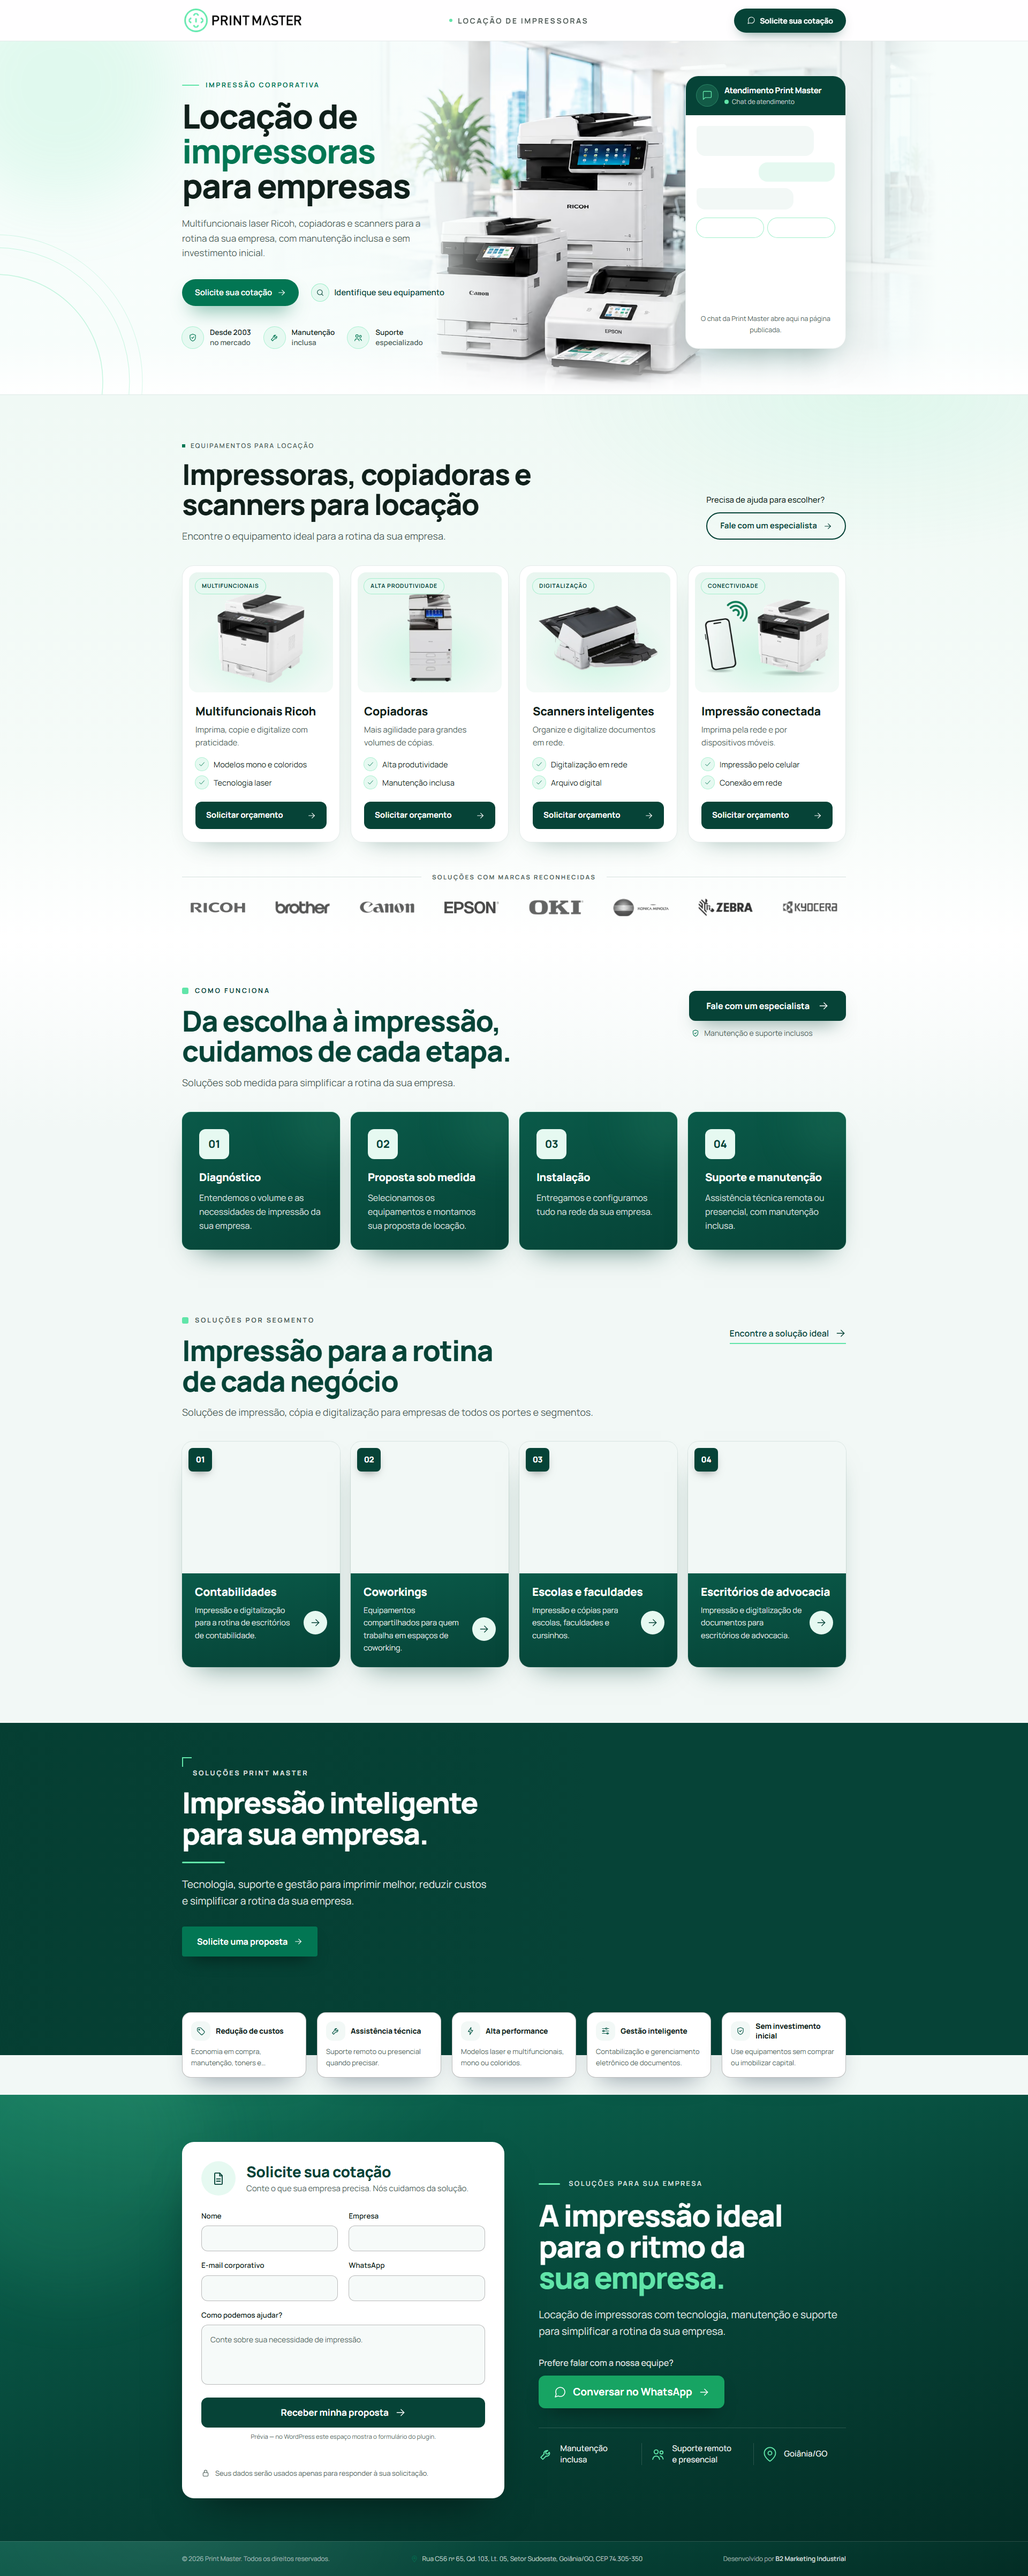
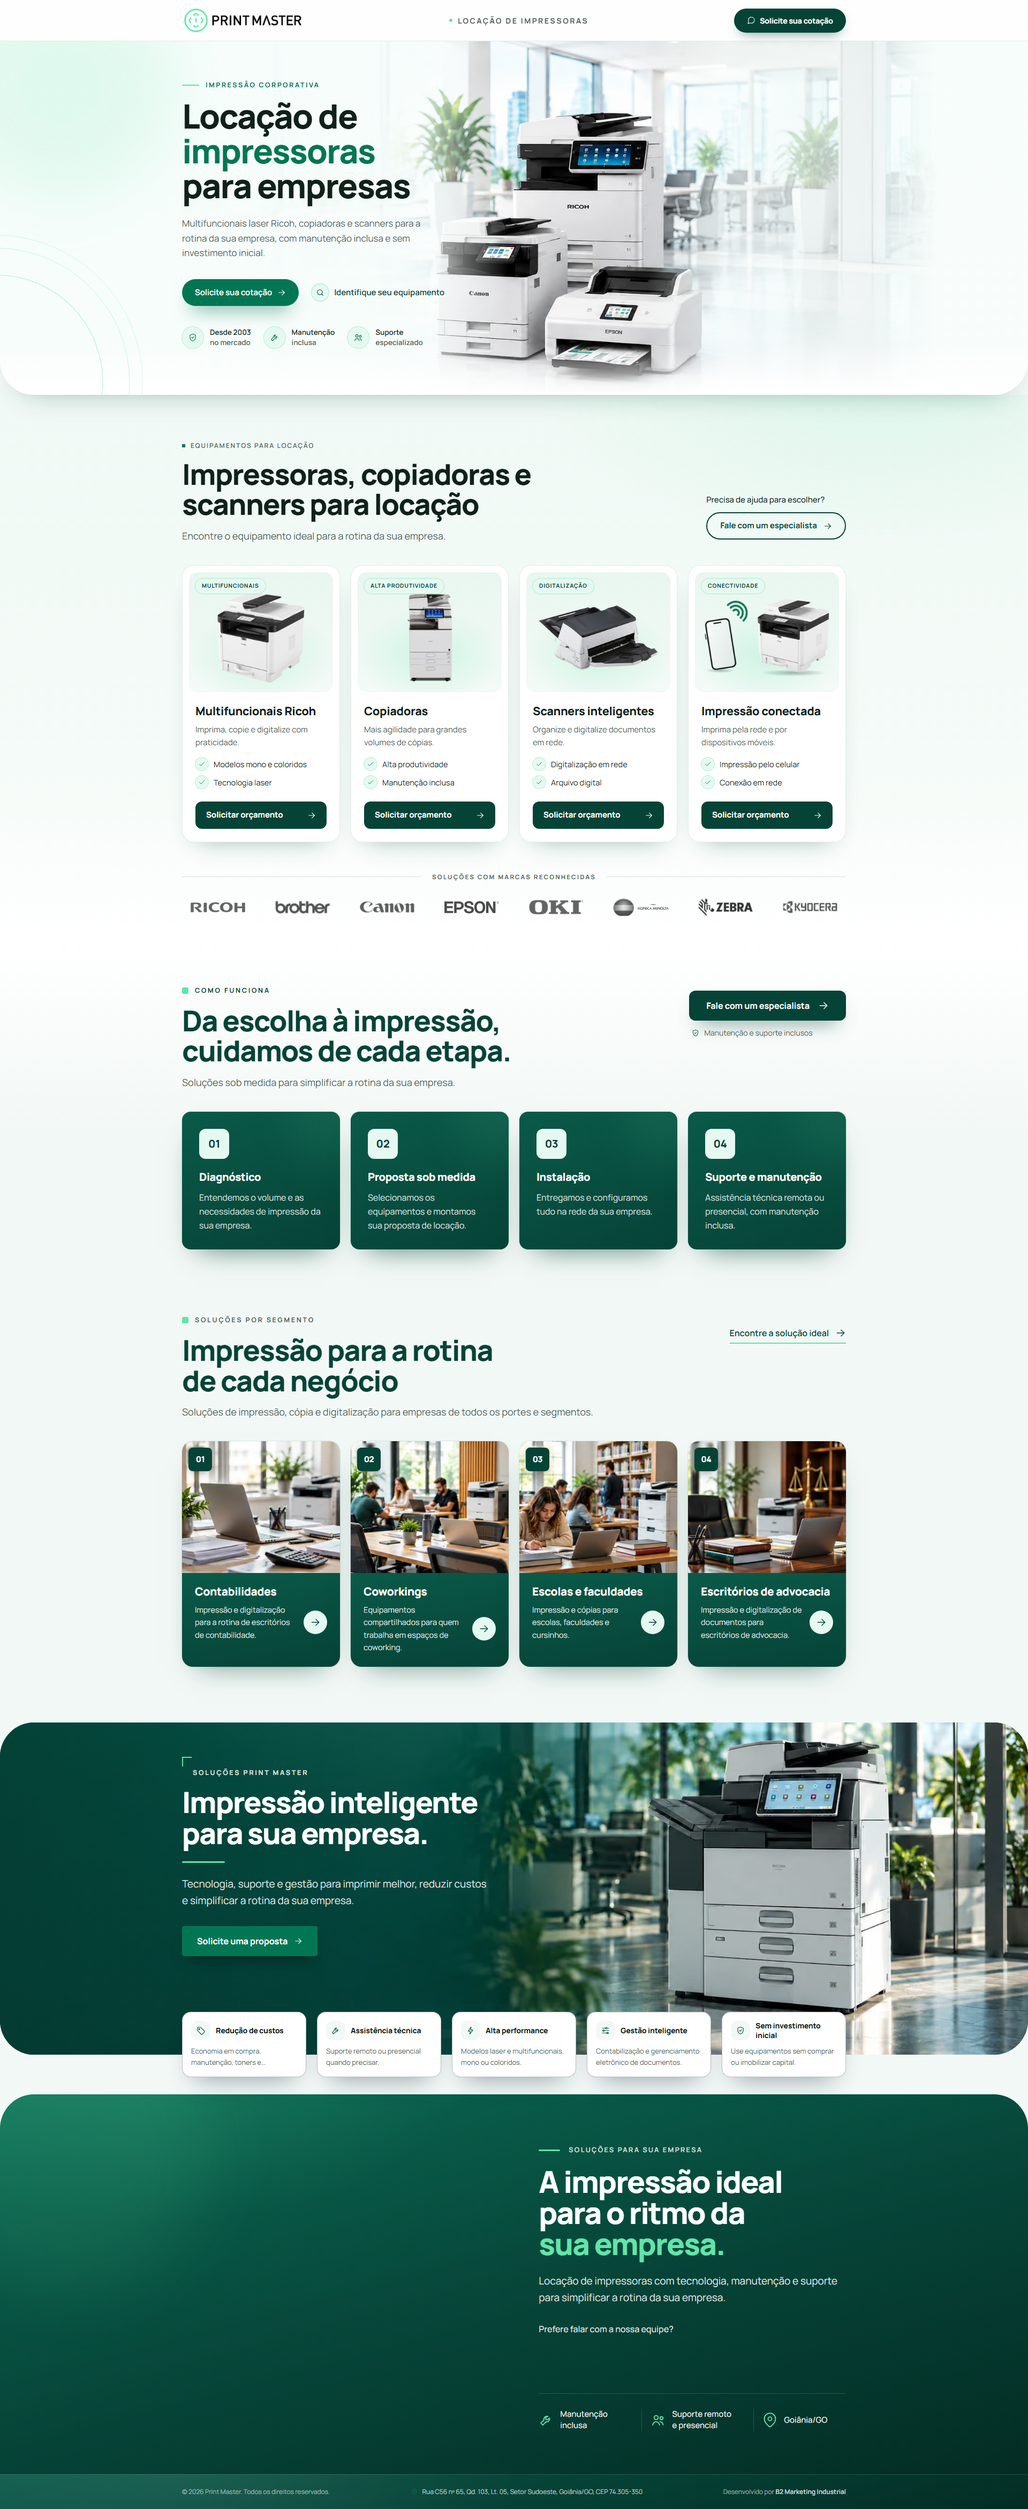
feat: espaços vazios no lugar das prévias e divisões arredondadas
- Saem a prévia do chat no hero, o card do formulário (com a nota de LGPD)
  e o botão "Conversar no WhatsApp" da cotação; ficam espaços vazios
  reservados para o plugin preencher no WordPress, sem CLS.
- Fora do WordPress o texto cru dos shortcodes é apagado; a regex do
  script estava sem escapes e não casava — corrigida.
- Hero com cantos inferiores arredondados e sombra suave, no lugar da
  linha reta; bloco de diferenciais e topo da cotação com o mesmo raio;
  fundo da página no cinza-menta das seções.
- A8 do check-lp sem data-cta="cotacao-whatsapp"; BRIEFING e screenshots
  atualizados.

diff --git a/src/data/content.ts b/src/data/content.ts
@@ -78,29 +78,13 @@ export const quote = {
   /** Trecho final do título em menta (precisa estar contido em `title`). */
   highlight: 'sua empresa.',
   text: 'Locação de impressoras com tecnologia, manutenção e suporte para simplificar a rotina da sua empresa.',
-  /** Chamada acima do botão de WhatsApp e o rótulo dele. */
+  /** Chamada acima do espaço reservado ao WhatsApp. */
   whatsappLead: 'Prefere falar com a nossa equipe?',
-  whatsappCta: 'Conversar no WhatsApp',
   trust: [
     { icon: 'wrench', label: 'Manutenção inclusa' },
     { icon: 'users', label: 'Suporte remoto e presencial' },
     { icon: 'pin', label: 'Goiânia/GO' },
   ],
-  /** Cabeçalho do card do formulário (o formulário em si é o shortcode do plugin). */
-  form: {
-    title: 'Solicite sua cotação',
-    text: 'Conte o que sua empresa precisa. Nós cuidamos da solução.',
-  },
-  /**
-   * Prévia do formulário, só fora do WordPress (Vercel, local), no lugar do shortcode cru.
-   * No WordPress os campos são os do plugin.
-   */
-  formPreview: {
-    fields: ['Nome', 'Empresa', 'E-mail corporativo', 'WhatsApp'],
-    message: 'Como podemos ajudar?',
-    placeholder: 'Conte sobre sua necessidade de impressão.',
-    button: 'Receber minha proposta',
-  },
   /** Nota de LGPD exibida abaixo do formulário. */
   lgpd: 'Seus dados serão usados apenas para responder à sua solicitação.',
 } as const satisfies {
@@ -109,15 +93,7 @@ export const quote = {
   highlight: string
   text: string
   whatsappLead: string
-  whatsappCta: string
   trust: readonly [TrustItem, TrustItem, TrustItem]
-  form: { title: string; text: string }
-  formPreview: {
-    fields: readonly [string, string, string, string]
-    message: string
-    placeholder: string
-    button: string
-  }
   lgpd: string
 }
 

diff --git a/src/data/icons.ts b/src/data/icons.ts
@@ -78,7 +78,6 @@ export const iconPaths = {
     '<rect x="2" y="2" width="20" height="20" rx="5"/><path d="M16 11.37A4 4 0 1 1 12.63 8 4 4 0 0 1 16 11.37z"/><path d="M17.5 6.5h.01"/>',
   whatsapp:
     '<path d="M21 11.5a8.38 8.38 0 0 1-.9 3.8 8.5 8.5 0 0 1-7.6 4.7 8.38 8.38 0 0 1-3.8-.9L3 21l1.9-5.7a8.38 8.38 0 0 1-.9-3.8 8.5 8.5 0 0 1 4.7-7.6 8.38 8.38 0 0 1 3.8-.9h.5a8.48 8.48 0 0 1 8 8v.5z"/>',
-  lock: '<rect x="5" y="10.5" width="14" height="10" rx="2.2"/><path d="M8.2 10.5V7.6a3.8 3.8 0 0 1 7.6 0v2.9"/>',
   shield:
     '<path d="M12 3.3 5.2 6v5.3c0 4.2 2.8 7.9 6.8 9.4 4-1.5 6.8-5.2 6.8-9.4V6L12 3.3Z"/><path d="m9.2 11.9 2 2 3.6-4"/>',
   truck:

diff --git a/src/styles/global.css b/src/styles/global.css
@@ -43,7 +43,9 @@
   }
 
   body {
-    @apply bg-neutral-light font-sans text-ink antialiased;
+    /* Cinza-menta, e não branco: é o fundo que aparece nos cantos arredondados entre as
+       seções (hero, bloco de diferenciais e cotação). */
+    @apply bg-neutral-gray-100 font-sans text-ink antialiased;
   }
 
   .font-display {

diff --git a/docs/BRIEFING.md b/docs/BRIEFING.md
@@ -131,7 +131,8 @@ Derivada em: 26/10/2026 · comando aplicado: `npm run compose -- linhas processo
 - **`aplicacoes` como no mockup aprovado (26/10/2026).** Cabeçalho à esquerda ("Soluções por segmento"), link "Encontre a solução ideal" à direita (`data-cta="aplicacoes-cta"`), e 4 cards-botão com foto 6:5 numerada e painel verde-escuro com título, texto e seta menta. As fotos saíram do próprio mockup (o número gravado nelas foi apagado e fica coberto pelo número da seção); as do site do cliente seguem no histórico do git.
 - **`diferenciais` como no mockup aprovado (26/10/2026).** Bloco em largura total sobre a foto enviada (multifuncional Ricoh em escritório, degradê verde já na imagem), eyebrow "Soluções Print Master", título "Impressão inteligente / para sua empresa.", texto novo e botão "Solicite uma proposta"; a colagem de equipamentos recortada (`pessoa.png`) saiu. Os 5 cards sobrepostos continuam. De quebra, as setas do trilho no celular voltaram a funcionar: o script procurava `[data-why]`, que a seção não tinha.
 - **Cotação como no mockup aprovado (26/10/2026).** Fundo verde-escuro; o shortcode do formulário fica dentro de um card branco com cabeçalho ("Solicite sua cotação" + subtítulo) e nota de privacidade com cadeado; título "A impressão ideal para o ritmo da sua empresa." com o final em menta; "Prefere falar com a nossa equipe?" e botão "Conversar no WhatsApp" em verde vivo (`#17a463`, texto 19px negrito para passar no contraste de texto grande); selos com divisórias. O formulário continua sendo o do plugin: fora do WordPress a prévia mostra os campos do mockup (Nome, Empresa, E-mail corporativo, WhatsApp, mensagem) como imagem não interativa, com a legenda "Prévia". Ícone `lock` acrescentado ao mapa de ícones. As assinaturas A8 da Cotação continuam as do padrão.
-- **Prévia do chat fora do WordPress**: na Vercel o shortcode chega como texto cru; o Hero o esconde e mostra um card de prévia ("O chat da Print Master abre aqui na página publicada"). Só age quando o conteúdo é exatamente um shortcode e o domínio não é `printmaster.net.br`; no WordPress nada muda.
+- **Espaços vazios no lugar das prévias (26/10/2026, a pedido do usuário).** As prévias do chat (hero) e do formulário (cotação), o card branco do formulário com a nota de LGPD e o botão "Conversar no WhatsApp" saíram: ficam espaços vazios reservados (510px no chat, 520px no formulário, 60px no botão), para o plugin preencher no WordPress sem deslocar o layout. Fora do WordPress o script do Hero apaga o texto cru dos shortcodes (`[data-shortcode-slot]`). A assinatura `data-cta="cotacao-whatsapp"` saiu da A8 do `check-lp.mjs`. **Pendência:** a nota de LGPD não aparece mais na página — confirmar que o formulário do plugin traz a sua.
+- **Divisões arredondadas entre seções (26/10/2026, a pedido do usuário).** O hero termina com cantos inferiores arredondados (40px no celular, 64px no desktop) e sombra suave, sem a linha reta; o bloco de diferenciais e o topo da cotação ganham o mesmo raio. O fundo da página passou a ser o cinza-menta das seções, que é o que aparece nos cantos.
 - `Layout.astro`: o preload do LCP acompanha as larguras do banner novo (até 1870px) e os `sizes` do `<Picture>`.
 - **Fonte servida pelo próprio site**: o Manrope saiu do Google Fonts para `@fontsource-variable/manrope` (5.3.0), com preload do subconjunto latino no `Layout.astro` e reserva com métricas de Arial (`Arial`, `Helvetica`, `Liberation Sans`). Com a abertura nova, a troca tardia de fonte no runner Linux (reserva DejaVu, mais larga) deslocava o hero: CLS de 0,104 no Lighthouse CI, acima do limite de 0,1. Depois da mudança: CLS 0 e LCP ~0,5 s no Lighthouse local.
 - A coluna do chat no hero reserva 510px (a altura do widget do plugin), para a troca do shortcode pela prévia não deslocar o layout.
